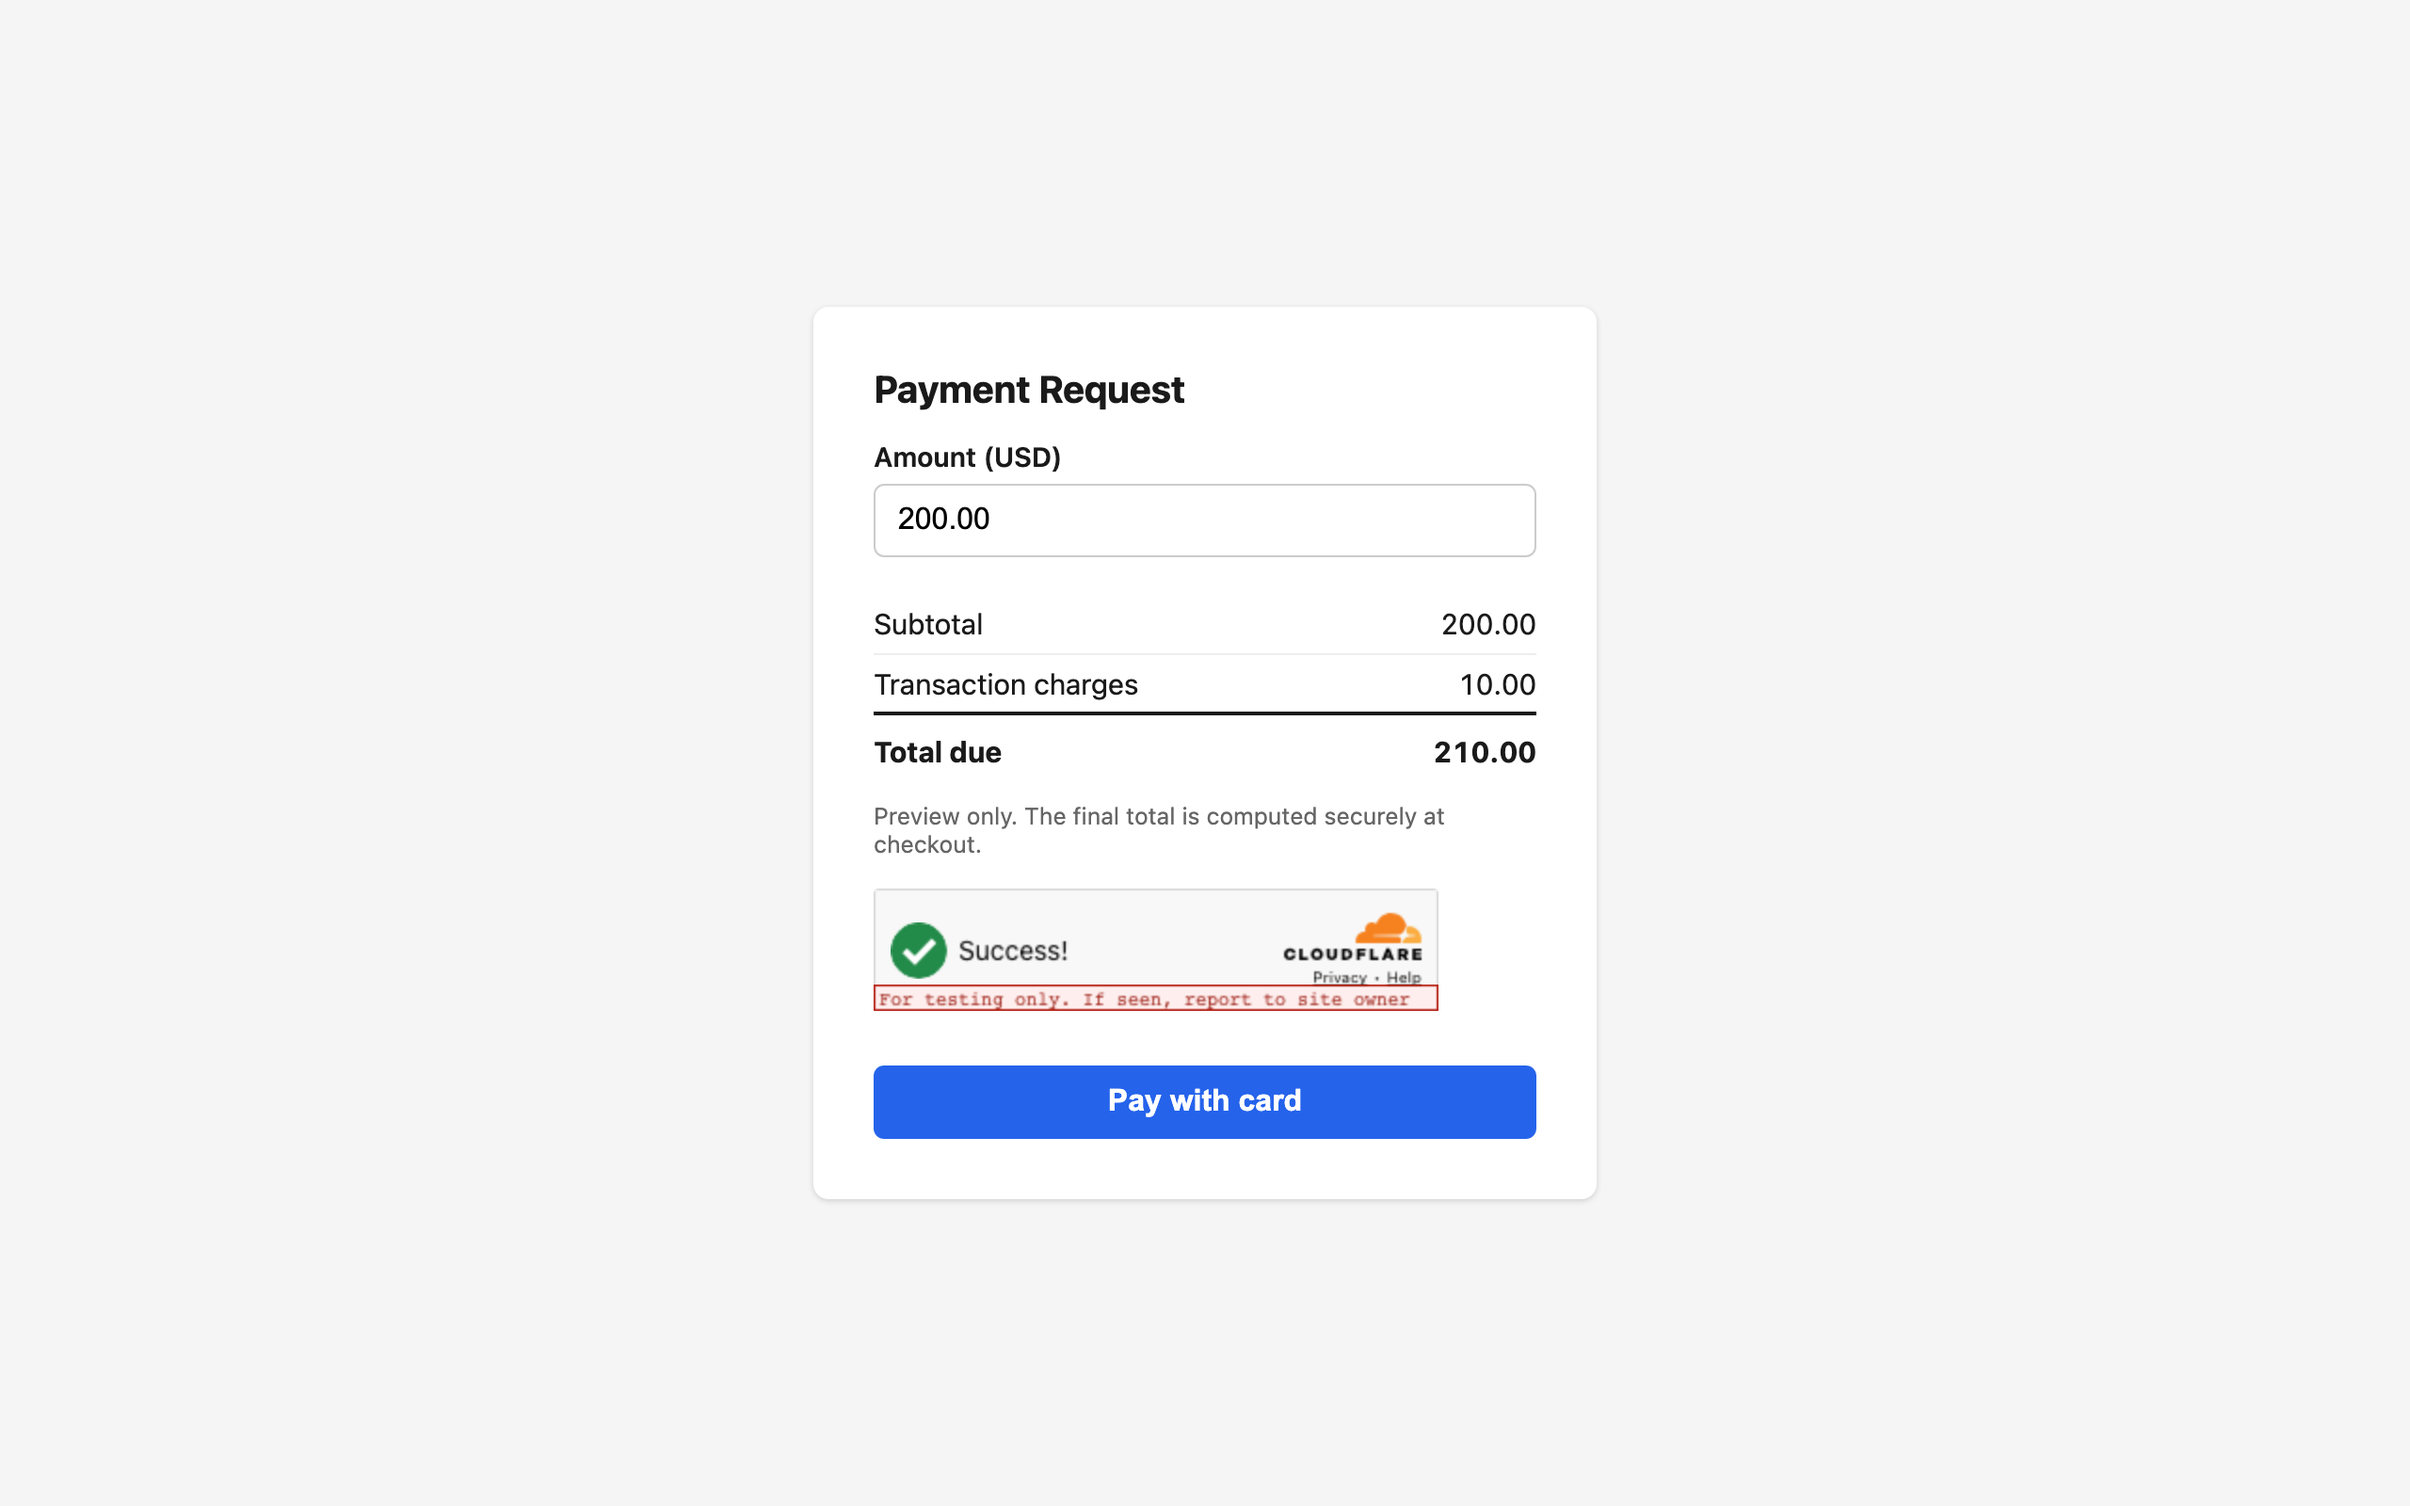
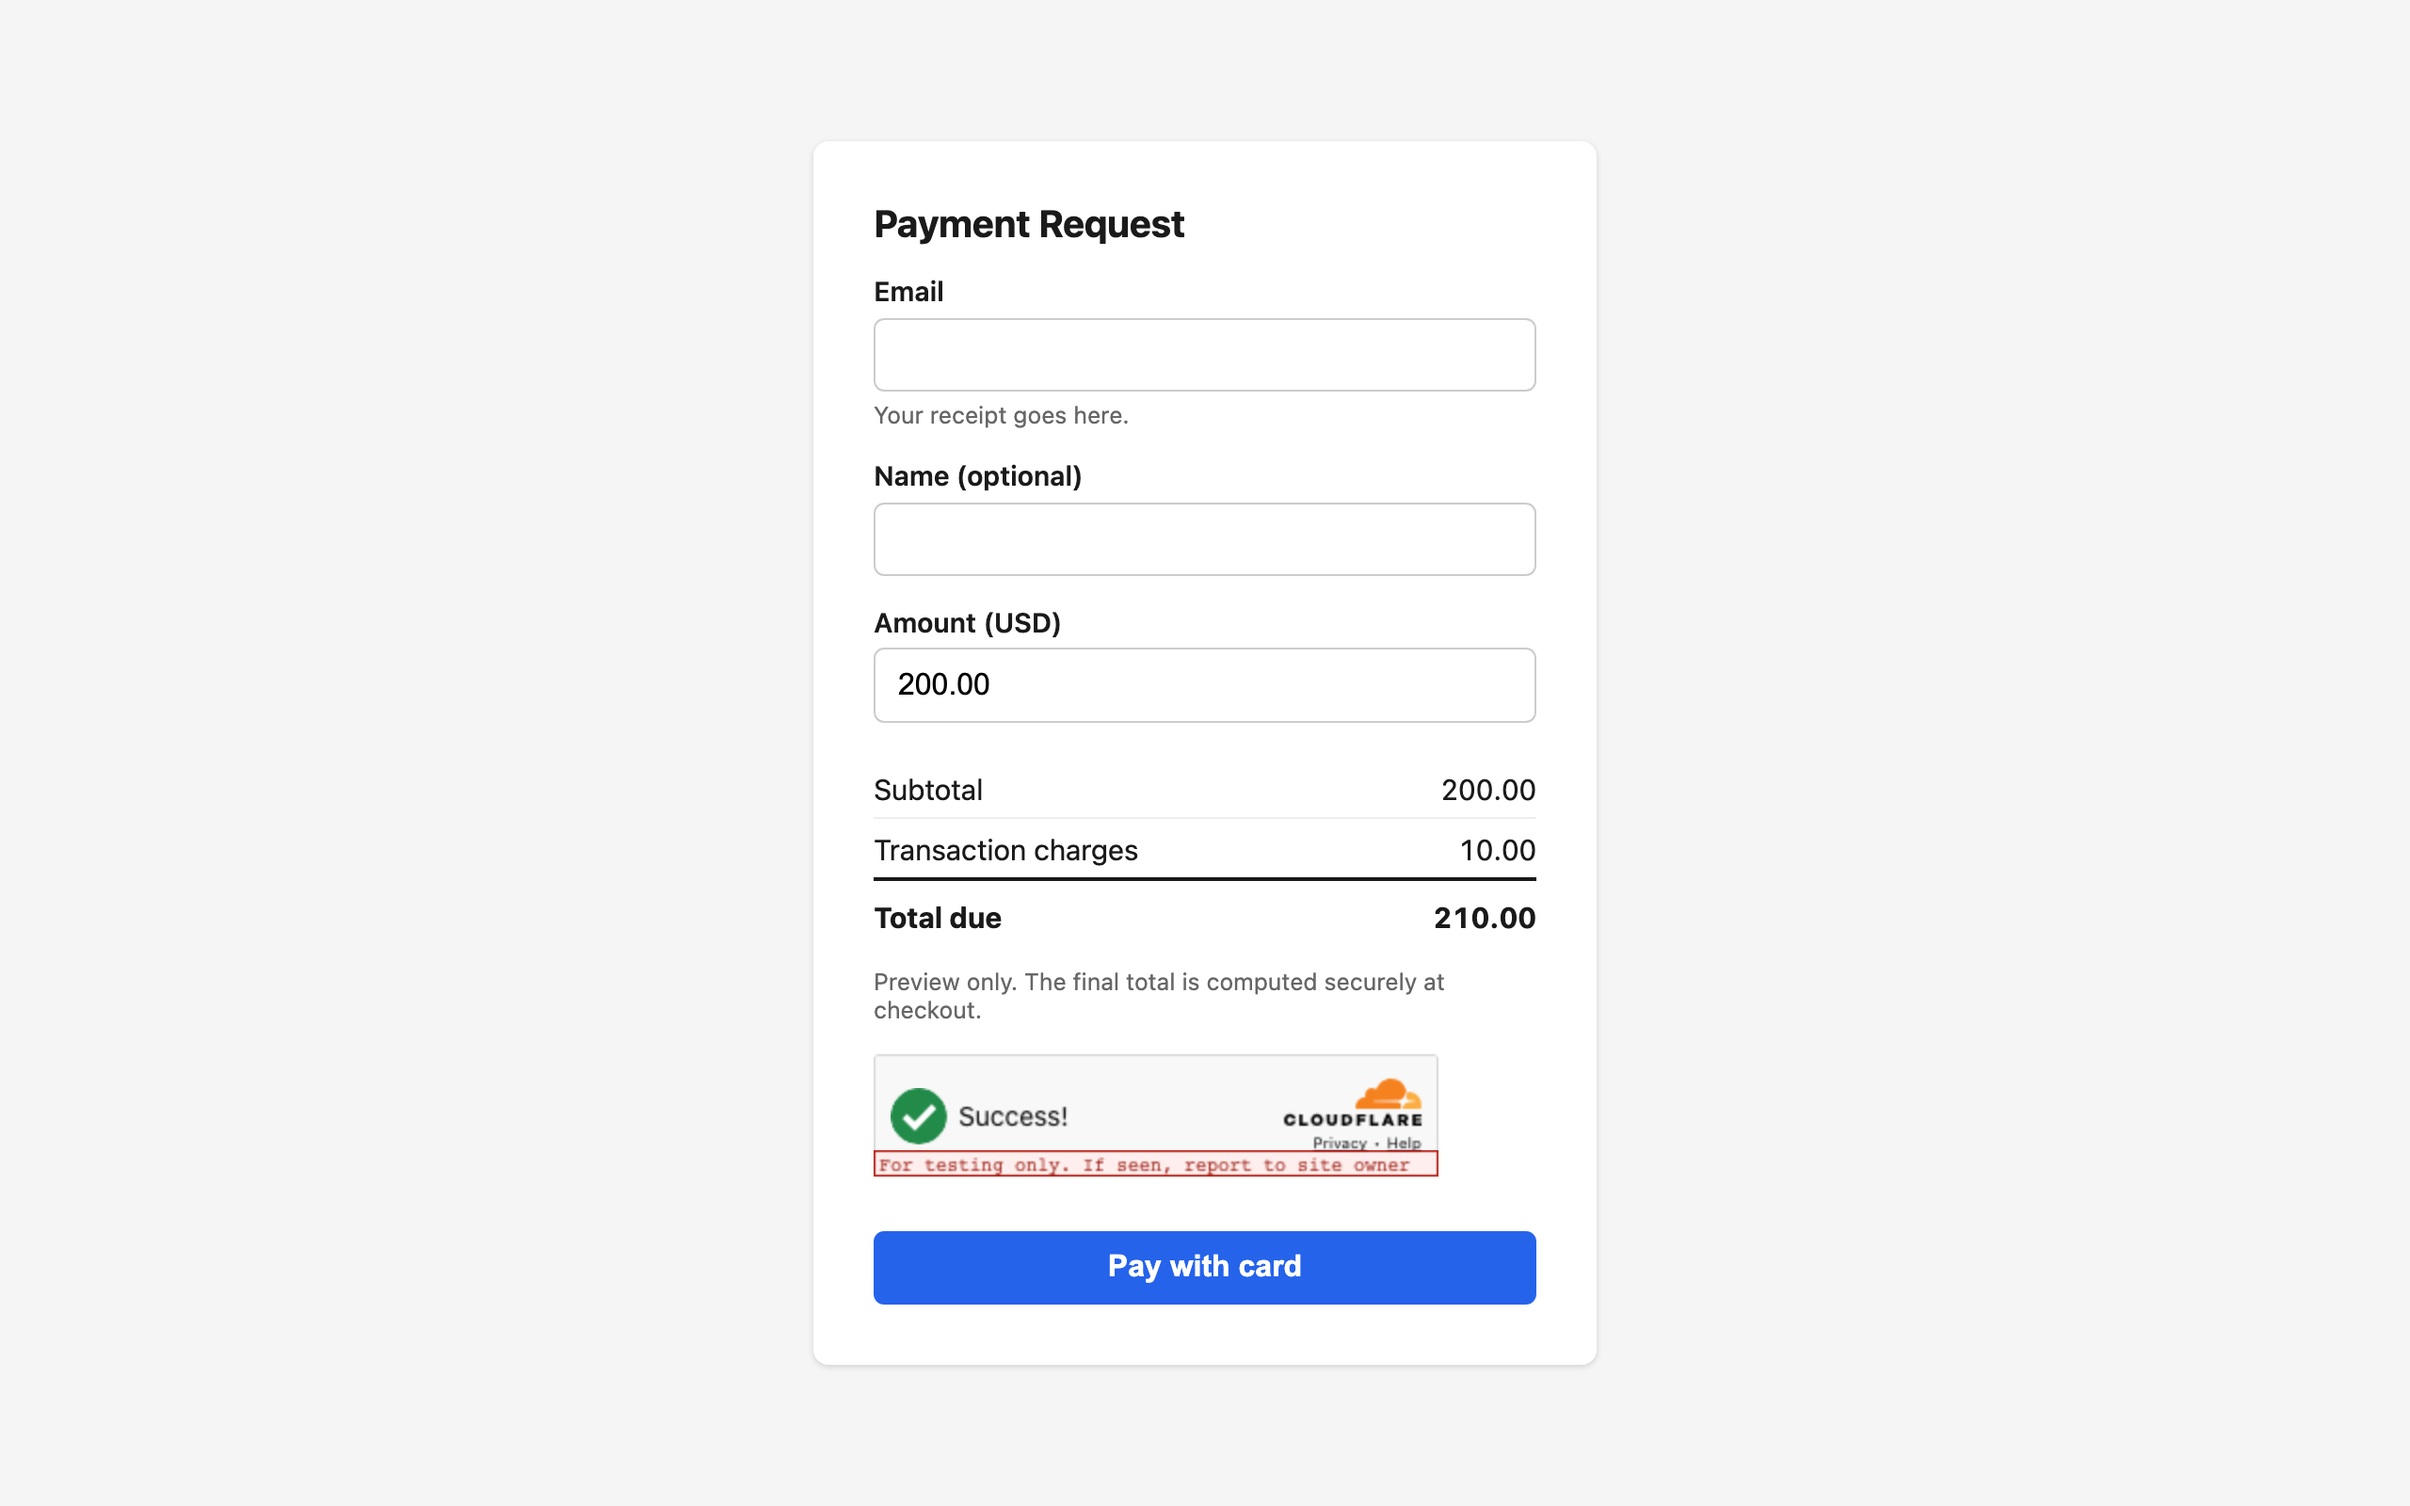
chore: 0.1.19 - name the author and link nipunarora.me

diff --git a/docs/how-it-works.md b/docs/how-it-works.md
@@ -104,7 +104,7 @@ Payments are env-gated and fully inert: with no Stripe or PayPal key configured,
 1. **From an entry:** the admin quote-flow on any entry detail page takes an amount plus optional memo and creates a Stripe Payment Link or PayPal order, stored on the entry, shown with a copy button, and auto-emailed to the visitor.
 2. **From nothing:** share `/forms-pay?amount=200`, a public payment-request page needing no pre-existing entry.
 
-![Shareable payment-request page at /forms-pay with a server-computed fee breakdown and Turnstile check](../.github/assets/pay-page.png)
+![Shareable payment-request page at /forms-pay with payer email, optional name, a server-computed fee breakdown and Turnstile check](../.github/assets/pay-page.png)
 
 The page renders the base amount, configured fee lines, and total. That render is only a preview. The server recomputes every total from the posted base amount and your `payLinkFees`/`feePresets` config; no total or fee amount is ever read from the request, only a `fee` selector over those configured lines, and it's honored only when the host opts in with `payments.feeOverrides: 'query'` (off by default). Amounts outside the configured min/max caps, or a currency outside the whitelist, are rejected with a clean `400`, never silently clamped. Turnstile gates the page when configured. The page also asks the payer for an email (required in the browser) and an optional name; the package only looks the email up and never creates a Stripe Customer itself: Stripe creates the Customer when the payer confirms the payment, and the webhook tags it once the payment is marked paid, so that payer's next payment is grouped under the same Customer in Stripe and the Payments admin view shows who paid. The name is stored on the entry but not sent to Stripe. The server accepts a post without an email (Stripe then creates a Customer without matching repeat payers) and rejects only a malformed one. A link sent to a known client can prefill both with `&email=` and `&name=`.
 

diff --git a/packages/astro-forms/README.md b/packages/astro-forms/README.md
@@ -142,7 +142,7 @@ With Astro's `security.csp` turned on, the `/forms-admin` pages stay styled and 
 
 7. Payments close the loop: create a quote from any entry, or share `/forms-pay?amount=200` (the payer enters an email; Stripe records them as a Customer when they pay, and their next payment is matched to it). The server recomputes every total, and only a verified provider webhook marks a payment paid. The pay page submits over fetch and hops to the provider as a plain GET, so edge bot-challenges (Cloudflare and friends) cannot break the checkout hop; see [`docs/payments.md`](https://github.com/nipun-arora/cool-astro-forms/blob/main/docs/payments.md) section 3b.
 
-   ![Shareable payment-request page at /forms-pay with a server-computed fee breakdown](https://raw.githubusercontent.com/nipun-arora/cool-astro-forms/main/.github/assets/pay-page.png)
+   ![Shareable payment-request page at /forms-pay with payer email, optional name and a server-computed fee breakdown](https://raw.githubusercontent.com/nipun-arora/cool-astro-forms/main/.github/assets/pay-page.png)
 
 Every trigger, gate, and fallback in detail, with screenshots: [docs/how-it-works.md](https://github.com/nipun-arora/cool-astro-forms/blob/main/docs/how-it-works.md).
 
@@ -225,6 +225,10 @@ Uploads land in your own Google Drive over raw REST (no SDK dependency). If Driv
 ## Contributing
 
 Test and build commands, the clean-room statement, and the blocking pre-publish checklist (including a required security audit) live in [CONTRIBUTING.md](https://github.com/nipun-arora/cool-astro-forms/blob/main/CONTRIBUTING.md).
+
+## Author
+
+Built and maintained by [Nipun Arora](https://nipunarora.me).
 
 ## License
 

diff --git a/README.md b/README.md
@@ -142,7 +142,7 @@ With Astro's `security.csp` turned on, the `/forms-admin` pages stay styled and 
 
 7. Payments close the loop: create a quote from any entry, or share `/forms-pay?amount=200` (the payer enters an email; Stripe records them as a Customer when they pay, and their next payment is matched to it). The server recomputes every total, and only a verified provider webhook marks a payment paid. The pay page submits over fetch and hops to the provider as a plain GET, so edge bot-challenges (Cloudflare and friends) cannot break the checkout hop; see [`docs/payments.md`](./docs/payments.md) section 3b.
 
-   ![Shareable payment-request page at /forms-pay with a server-computed fee breakdown](.github/assets/pay-page.png)
+   ![Shareable payment-request page at /forms-pay with payer email, optional name and a server-computed fee breakdown](.github/assets/pay-page.png)
 
 Every trigger, gate, and fallback in detail, with screenshots: [docs/how-it-works.md](./docs/how-it-works.md).
 
@@ -225,6 +225,10 @@ Uploads land in your own Google Drive over raw REST (no SDK dependency). If Driv
 ## Contributing
 
 Test and build commands, the clean-room statement, and the blocking pre-publish checklist (including a required security audit) live in [CONTRIBUTING.md](./CONTRIBUTING.md).
+
+## Author
+
+Built and maintained by [Nipun Arora](https://nipunarora.me).
 
 ## License
 

diff --git a/docs/payments.md b/docs/payments.md
@@ -475,6 +475,16 @@ Upgrading: host-owned pay forms that post to `/api/forms/pay/create-session`
 keep working unchanged. Add an `email` field (and optionally `name`) to get
 repeat payers matched to one Customer.
 
+If that form carries `data-caf` (for example so the Turnstile loader renders
+its widget there), mark the payer fields `data-caf-ignore`. Otherwise the
+abandonment capture stages the email, any leave trigger before the payer
+presses Pay (a tab switch, an outbound link, the pointer leaving through the
+top edge) saves an abandoned draft for that form, and create-session never
+converts it, so the owner gets an "Abandoned" alert for a payer who paid.
+`forms.<id>.capture.deny: ['email', 'name']` does the same from config. Do
+not remove `data-caf` to avoid this: the loader renders the widget only on
+`[data-caf]` forms, and create-session refuses a post without a token.
+
 **`amount` and `pay` are distinct param names by design (D4)** — this makes a
 100x unit mix-up structurally impossible. If `amount` is present in the
 query string it always governs, valid or not; an invalid `amount` never

diff --git a/CHANGELOG.md b/CHANGELOG.md
@@ -9,6 +9,26 @@ below as **BREAKING** rather than held for a 1.0 major.
 
 Entries are newest first.
 
+## [0.1.19] - 2026-10-19
+
+### Changed
+
+- The package now names its author: `package.json` carries `author`
+  (Nipun Arora, https://nipunarora.me), and `homepage` points at the project
+  page, https://nipunarora.me/open-source/cool-astro-forms/. `repository`
+  and `bugs` still point at GitHub. No runtime code changed since 0.1.18.
+
+### Documentation
+
+- Both READMEs end with an Author section: "Built and maintained by Nipun
+  Arora", linked to https://nipunarora.me.
+- The `/forms-pay` screenshots (`pay-page.png`, `pay-recovery.png`) are
+  recaptured with the Email and Name fields added in 0.1.17, and their alt
+  text names them.
+- docs/payments.md now warns that a host-owned pay form carrying `data-caf`
+  needs `data-caf-ignore` on its payer fields (or `capture.deny`), or the
+  abandonment capture alerts the owner about payers who paid.
+
 ## [0.1.18] - 2026-10-16
 
 ### Fixed

diff --git a/CONTRIBUTING.md b/CONTRIBUTING.md
@@ -82,8 +82,9 @@ run, the following must all be true:
 4. `.github/workflows/publish.yml` is dispatched by hand (`workflow_dispatch`
    with the `confirm: publish` input) by a maintainer who has personally
    confirmed steps 1-3 — never automated, never triggered by a push.
-5. The `repository`, `homepage`, and `bugs` URLs in `package.json` point at
-   the canonical repository (`github.com/nipun-arora/cool-astro-forms`).
+5. The `repository` and `bugs` URLs in `package.json` point at the canonical
+   repository (`github.com/nipun-arora/cool-astro-forms`), and `homepage`
+   points at the project page (`https://nipunarora.me/open-source/cool-astro-forms/`).
 
 ## No AI-attribution policy
 
